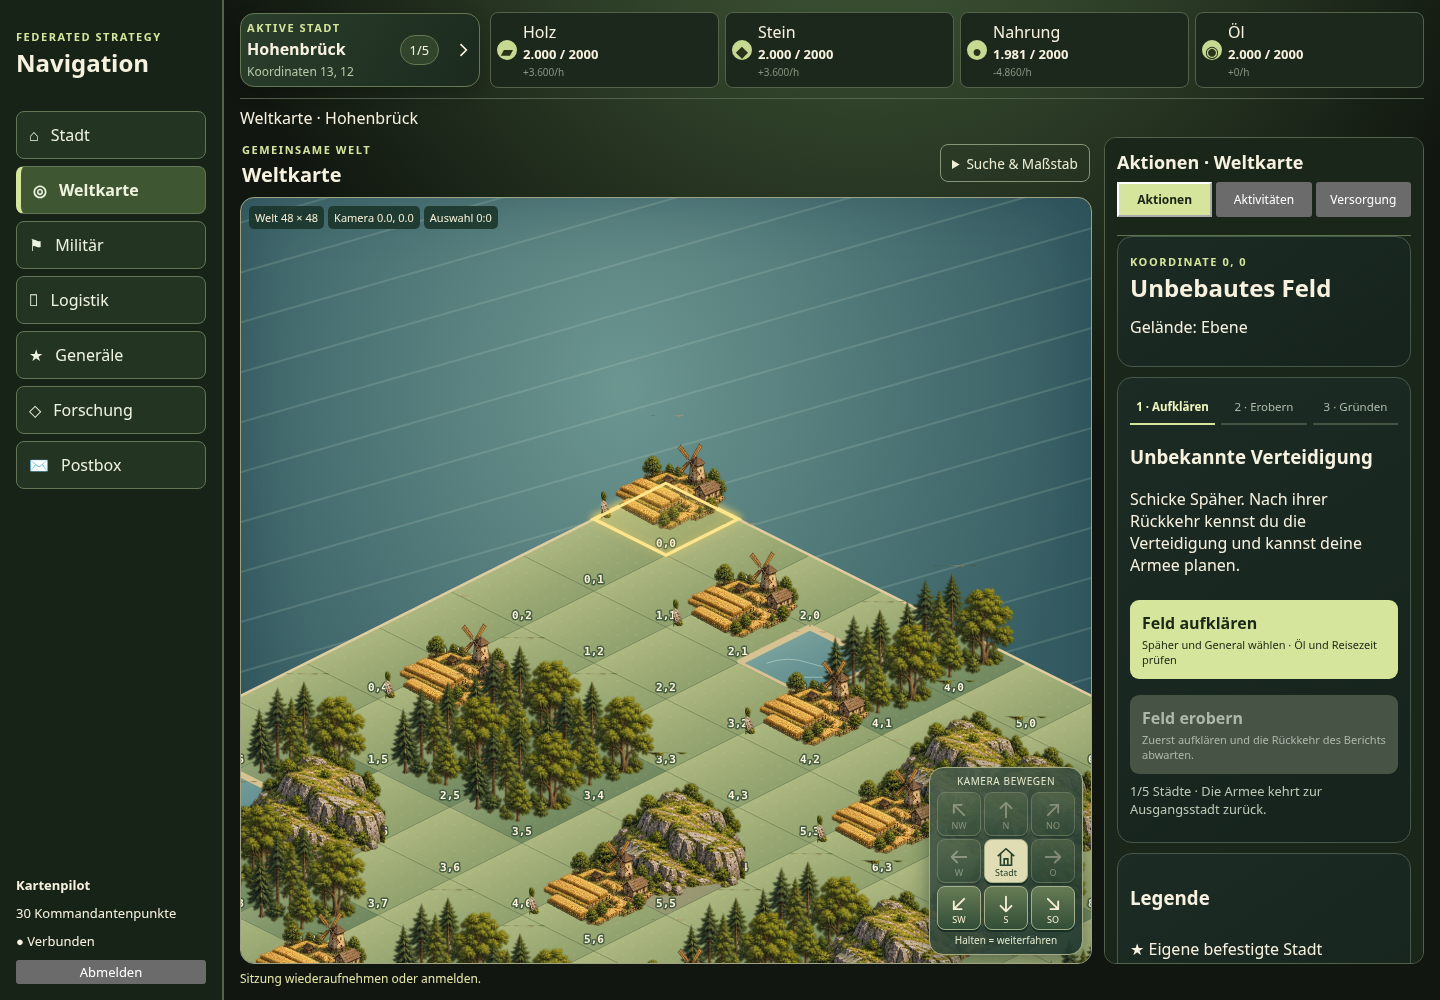
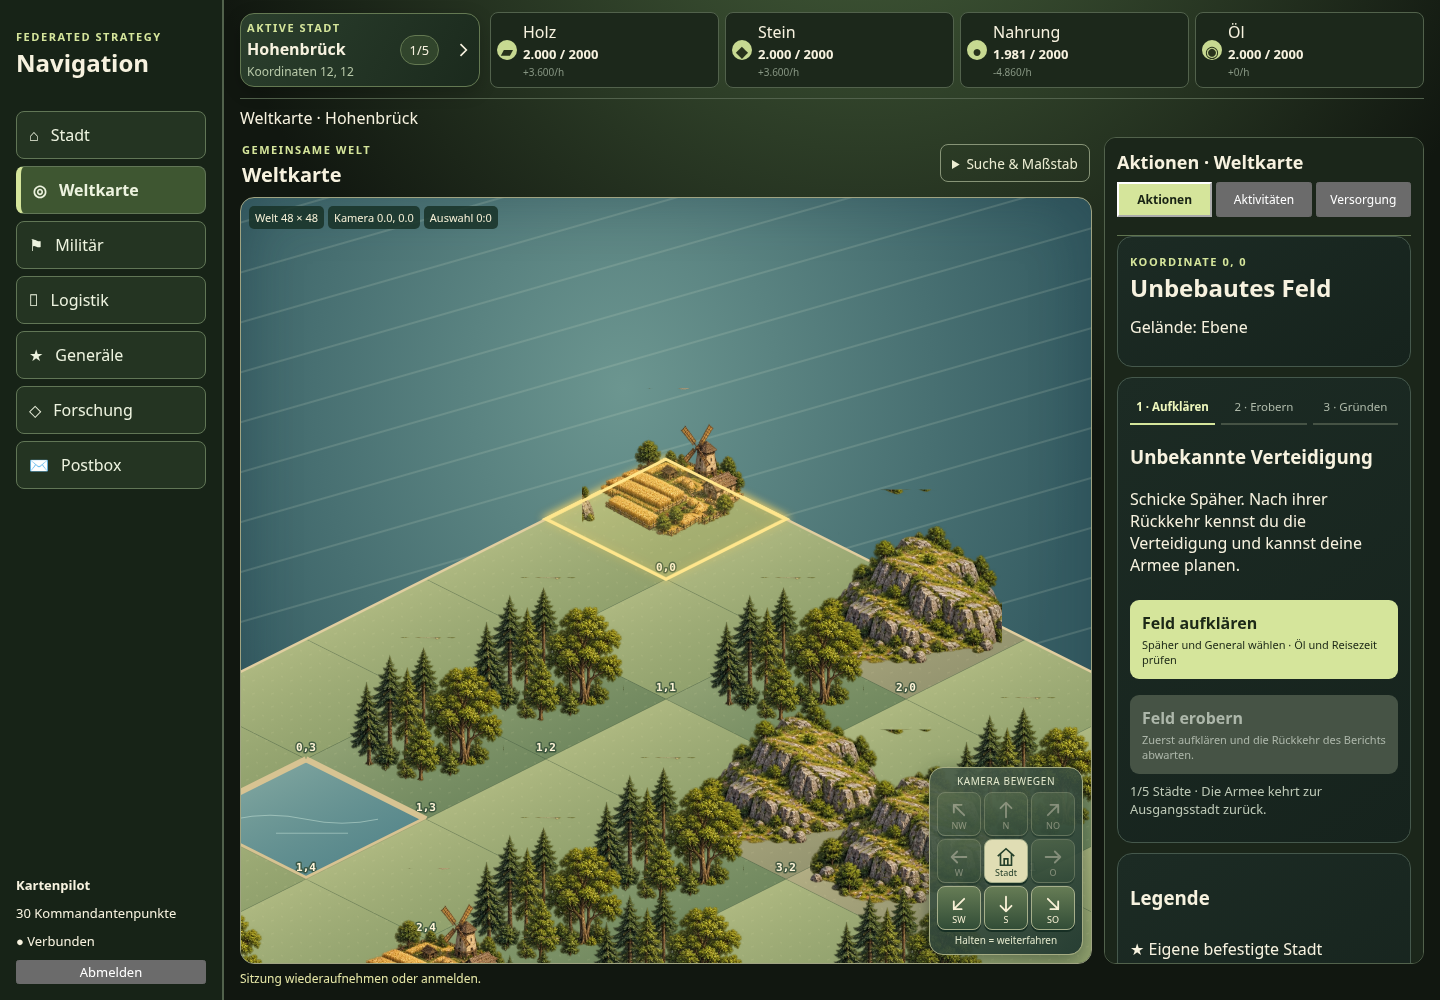
fix: fit city footprints into larger isometric fields

Changed region(s): [[0.1562, 0.434, 0.7812, 0.961]]

diff --git a/apps/client/src/IsometricMap.jsx b/apps/client/src/IsometricMap.jsx
@@ -6,7 +6,7 @@ import { MapCompass } from './MapCompass.jsx';
 export function IsometricMap({ map, cityId, transport, selection }) {
   const [cache,setCache]=useState(()=>mergeMapCache({revision:null,terrain:new Map(),entities:new Map()},map));
   const bounds=map?.bounds??{width:24,height:24};
-  const [camera,setCamera]=useState(()=>clampCamera(map?.ownCity??{x:12,y:12},bounds)),[tileWidth,setTileWidth]=useState(() => window.innerWidth <= 560 ? 128 : 144),[coordinate,setCoordinate]=useState(''),[toolsOpen,setToolsOpen]=useState(false),[frame,setFrame]=useState({width:700,height:500}),[loading,setLoading]=useState(false),[error,setError]=useState('');
+  const [camera,setCamera]=useState(()=>clampCamera(map?.ownCity??{x:12,y:12},bounds)),[tileWidth,setTileWidth]=useState(() => window.innerWidth <= 560 ? 208 : 240),[coordinate,setCoordinate]=useState(''),[toolsOpen,setToolsOpen]=useState(false),[frame,setFrame]=useState({width:700,height:500}),[loading,setLoading]=useState(false),[error,setError]=useState('');
   const frameRef=useRef(null),cameraRef=useRef(camera),cacheRef=useRef(cache),widthRef=useRef(tileWidth),boundsRef=useRef(bounds),frameSize=useRef(frame),ownRef=useRef(map?.ownCity),initialized=useRef(Boolean(map?.ownCity)),flight=useRef(null),requestAt=useRef(0);
   cacheRef.current=cache;widthRef.current=tileWidth;boundsRef.current=bounds;frameSize.current=frame;ownRef.current=map?.ownCity??ownRef.current;
   const position=useCallback(point=>{const next=clampCamera(point,boundsRef.current);cameraRef.current=next;setCamera(next);},[]);
@@ -40,7 +40,7 @@ export function IsometricMap({ map, cityId, transport, selection }) {
   const center=project(camera,tileWidth);
   const search=event=>{event.preventDefault();const parts=coordinate.match(/^\s*(\d+)\s*[,; ]\s*(\d+)\s*$/);if(!parts){setError('Koordinate als x, y eingeben.');return;}position({x:Number(parts[1]),y:Number(parts[2])});setError('');};
   return <div className="iso-map-window">
-    <div className="iso-toolbar"><div><span className="kicker">GEMEINSAME WELT</span><h2 id="world-heading">Weltkarte</h2></div><details className="iso-tools" open={toolsOpen} onToggle={event=>setToolsOpen(event.currentTarget.open)}><summary>Suche &amp; Maßstab</summary><div className="iso-tool-content"><form onSubmit={search}><label>Koordinate<input value={coordinate} onChange={event=>setCoordinate(event.target.value)} placeholder="12, 8" inputMode="numeric"/></label><button>Suchen</button></form><button aria-label="Verkleinern" disabled={tileWidth<=112} onClick={()=>setTileWidth(w=>Math.max(112,w-16))}>−</button><output aria-label="Kartenmaßstab">{Math.round(tileWidth/144*100)} %</output><button aria-label="Vergrößern" disabled={tileWidth>=208} onClick={()=>setTileWidth(w=>Math.min(208,w+16))}>+</button></div></details></div>
+    <div className="iso-toolbar"><div><span className="kicker">GEMEINSAME WELT</span><h2 id="world-heading">Weltkarte</h2></div><details className="iso-tools" open={toolsOpen} onToggle={event=>setToolsOpen(event.currentTarget.open)}><summary>Suche &amp; Maßstab</summary><div className="iso-tool-content"><form onSubmit={search}><label>Koordinate<input value={coordinate} onChange={event=>setCoordinate(event.target.value)} placeholder="12, 8" inputMode="numeric"/></label><button>Suchen</button></form><button aria-label="Verkleinern" disabled={tileWidth<=160} onClick={()=>setTileWidth(w=>Math.max(160,w-32))}>−</button><output aria-label="Kartenmaßstab">{Math.round(tileWidth/240*100)} %</output><button aria-label="Vergrößern" disabled={tileWidth>=320} onClick={()=>setTileWidth(w=>Math.min(320,w+32))}>+</button></div></details></div>
     <div className="iso-map-frame" ref={frameRef} data-camera-x={camera.x.toFixed(5)} data-camera-y={camera.y.toFixed(5)} data-tile-width={tileWidth}>
       <MapCompass camera={camera} bounds={bounds} tileWidth={tileWidth} onMove={move} onHome={()=>ownRef.current&&position(ownRef.current)}/>
       <div className="iso-map-hud"><span>Welt {bounds.width} × {bounds.height}</span><output aria-label="Kameraposition">Kamera {camera.x.toFixed(1)}, {camera.y.toFixed(1)}</output>{selected&&<span data-selected-coordinate={selected}>Auswahl {selection.entity?.name??selected}</span>}{loading&&<span role="status">Karte lädt …</span>}</div>

diff --git a/apps/client/src/IsometricScene.jsx b/apps/client/src/IsometricScene.jsx
@@ -6,7 +6,7 @@ const terrainNames={plains:'Ebene',forest:'Wald',hills:'Hügel',water:'Wasser'};
 const colors={plains:'#a4b579',forest:'#799466',hills:'#aaa57d',water:'#5994a2'};
 function Sprite({ kind, width }) {
   const index={ 'own-city':0,'player-city':1,npc:2,forest:3,hills:4,plains:5 }[kind];
-  return <svg x={-width/2} y={-width*.80} width={width} height={width} viewBox={`${(index%3)*400} ${Math.floor(index/3)*400} 400 400`} overflow="hidden" className="iso-sprite" pointerEvents="none" aria-hidden="true"><image href={atlas} width="1200" height="800"/></svg>;
+  return <svg x={-width/2} y={-width*.78} width={width} height={width} viewBox={`${(index%3)*400} ${Math.floor(index/3)*400} 400 400`} overflow="hidden" data-sprite-width={width} className="iso-sprite" pointerEvents="none" aria-hidden="true"><image href={atlas} width="1200" height="800"/></svg>;
 }
 
 export function IsometricScene({ cache, bounds, tileWidth, selected, onSelect }) {
@@ -37,8 +37,8 @@ export function IsometricScene({ cache, bounds, tileWidth, selected, onSelect })
     <g className="iso-object-layer">{painted.map(t=>{const key=`${t.x}:${t.y}`,e=cache.entities.get(key),p=project(t,tileWidth),kind=e?.type??t.type;
       if(kind==='water'||kind==='plains'&&(t.x*3+t.y)%7!==0)return null;
       return <g key={key} className={`iso-object ${e?'iso-city':''}`} data-map-coordinate={key} data-entity-type={e?.type} data-depth={t.x+t.y} transform={`translate(${p.x} ${p.y})`} role={e?'button':undefined} tabIndex={e?0:undefined} aria-label={e?`${e.name}, ${mapEntityLabel(e.type)}, ${t.x}, ${t.y}`:undefined} onClick={event=>select(event,key)} onKeyDown={event=>keyboard(event,key)}>
-        <path className="iso-object-hit" d={e?`M${-tileWidth*.7} -15 ${-tileWidth*.6} ${-tileWidth*.65} ${-tileWidth*.2} ${-tileWidth*.8} 0 ${-tileWidth*1.15} ${tileWidth*.25} ${-tileWidth*.75} ${tileWidth*.65} ${-tileWidth*.6} ${tileWidth*.7} 0 0 ${tileWidth*.24}Z`:`M${-tileWidth*.52} 0 ${-tileWidth*.45} ${-tileWidth*.65} 0 ${-tileWidth*.8} ${tileWidth*.5} ${-tileWidth*.55} ${tileWidth*.52} 0 0 ${tileWidth*.2}Z`} fill="transparent" pointerEvents="all"/>
-        {kind==='claim'?<g><ellipse cy="8" rx="20" ry="7" fill="#263e2a66"/><path d="M0 8v-65l28 10L0-36" fill="#e5ca7c" stroke="#6d5739" strokeWidth="3"/></g>:<Sprite kind={kind} width={tileWidth*(e?1.5:kind==='hills'?1.1:kind==='forest'?.85:.9)}/>}
+        <path className="iso-object-hit" d={e?`M${-tileWidth*.37} 0 ${-tileWidth*.32} ${-tileWidth*.34} ${-tileWidth*.1} ${-tileWidth*.43} 0 ${-tileWidth*.62} ${tileWidth*.13} ${-tileWidth*.4} ${tileWidth*.35} ${-tileWidth*.32} ${tileWidth*.37} 0 0 ${tileWidth*.17}Z`:`M${-tileWidth*.31} 0 ${-tileWidth*.27} ${-tileWidth*.4} 0 ${-tileWidth*.53} ${tileWidth*.3} ${-tileWidth*.35} ${tileWidth*.31} 0 0 ${tileWidth*.14}Z`} fill="transparent" pointerEvents="all"/>
+        {kind==='claim'?<g><ellipse cy="8" rx="20" ry="7" fill="#263e2a66"/><path d="M0 8v-65l28 10L0-36" fill="#e5ca7c" stroke="#6d5739" strokeWidth="3"/></g>:<Sprite kind={kind} width={tileWidth*(e ? .8 : kind==='hills' ? .8 : kind==='forest' ? .65 : .7)}/>}
       </g>;
     })}</g>
     {selected&&(()=>{const [x,y]=selected.split(':').map(Number),p=project({x,y},tileWidth);return <polygon className="iso-selection-outline" points={`0,${-h} ${w},0 0,${h} ${-w},0`} transform={`translate(${p.x} ${p.y})`} fill="#ffe58418" stroke="#ffe68c" strokeWidth="3" pointerEvents="none"/>;})()}

diff --git a/docs/WORLD_MAP_VALIDATION.md b/docs/WORLD_MAP_VALIDATION.md
@@ -8,7 +8,13 @@ Die Karte ist eine isometrische 2,5D-Szene mit rautenförmigem Boden, Schatten u
 
 Die Windrose bleibt innerhalb des Kartenrahmens unten rechts. Acht Richtungen entsprechen der Bildschirmrichtung der Kamera; die Landschaft läuft entgegengesetzt. Ein kurzer Druck bewegt 64 Bildpixel. Nach 220 ms Haltezeit folgt Bewegung mit 170 Bildpixeln pro Sekunde, unabhängig von Bildrate und Tastaturwiederholung. Loslassen außerhalb, Pointer-Cancel, Fokusverlust und versteckte Dokumente stoppen die Bewegung. Enter/Leertaste und Touch werden unterstützt. Navigation verändert weder Auswahl noch Zoom und löst keine Spielaktion aus. Ziehen, Wischen, Mausrad und lose Pfeiltasten bewegen die Kamera nicht.
 
-Suche, eigener Stadtmittelpunkt und expliziter Zoom verwenden dieselbe Projektion. Der anfängliche Maßstab beträgt 144 px pro Raute, auf schmalen Geräten 128 px; Navigation hält den Maßstab konstant. Die responsive Kartenfläche benötigt kein Scrollen der Seite. Jenseits der ausdrücklich gezeichneten Weltgrenze liegt eine dekorative Wasserfläche ohne auswählbare Felder.
+Suche, eigener Stadtmittelpunkt und expliziter Zoom verwenden dieselbe Projektion. Der anfängliche Maßstab beträgt 240 px pro Raute, auf schmalen Geräten 208 px; Navigation hält den Maßstab konstant. Die responsive Kartenfläche benötigt kein Scrollen der Seite. Jenseits der ausdrücklich gezeichneten Weltgrenze liegt eine dekorative Wasserfläche ohne auswählbare Felder.
+
+## Korrektur der Stadt-/Feldgrößen
+
+Die Felder wurden von 144 auf 240 px am Desktop und von 128 auf 208 px auf schmalen Geräten vergrößert. Stadtgrafiken belegen jetzt 80 % statt 150 % der Feldbreite; ihr Bodenanker wurde nachjustiert. Dadurch passen Mauern und Stadtgrundfläche mit Abstand in die zugehörige Raute. Türme dürfen als erhöhte Objekte weiterhin vor dahinterliegende Felder ragen. Die Trefferflächen für Städte und Gelände wurden entsprechend verkleinert, damit unsichtbare alte Trefferbereiche keine Nachbarfelder auswählen. Der explizite Zoom reicht nun von 160 bis 320 px.
+
+Der ergänzte Browsercheck prüft die tatsächliche Stadtbreite sowie freie, korrekt zugeordnete vordere Feldränder für alle drei Stadttypen. Ein Zwischenlauf zeigte an einem seitlichen Rand eine Überdeckung durch ein Vordergrundobjekt; die Prüfung verwendet daher die Bodenränder vor den Gebäuden, während erhöhte Architektur weiterhin gemäß Tiefensortierung auswählbar bleibt. Die zu großen Geländetrefferflächen wurden dabei korrigiert. Abschlussbefehle und neue Screenshots wurden nach der Korrektur erneut erzeugt (`work/isometric-size-test.log`, `work/isometric-size-build.log`, `work/isometric-size-browser.log`).
 
 ## Projektion, Daten und Spielstände
 
@@ -24,7 +30,7 @@ Es gibt keine neuen Serverbefehle, Geländearten oder Spielregeln. Auswahl, Aufk
 | --- | --- |
 | `npm test` | 238 Tests bestanden, 0 fehlgeschlagen |
 | `npm run build` | Produktionsbuild erfolgreich |
-| `PLAYWRIGHT_MODULE=/opt/codex/runtimes/cua/lib/node_modules/playwright/index.mjs node scripts/validate-world-map-ui.mjs` | Neun Browserprüfgruppen erfolgreich, keine JavaScript-Seitenfehler |
+| `PLAYWRIGHT_MODULE=/opt/codex/runtimes/cua/lib/node_modules/playwright/index.mjs node scripts/validate-world-map-ui.mjs` | Zehn Browserprüfgruppen erfolgreich, keine JavaScript-Seitenfehler |
 | `git diff --check` | Keine Whitespacefehler |
 
 Sechs neue automatisierte Kameratests prüfen Projektion und inverse Auswahl bei mehreren Maßstäben und Weltenden, alle acht Bildschirmrichtungen, Stopp an Grenzen, zeitbasierte Bewegung, Abbruch/Richtungswechsel, Cache-Revisionen und begrenzte Nachladeblöcke einschließlich kleiner Welten. Zwei Transporttests prüfen erhaltene Auswahl/Details, veraltete Antworten und weiterhin leere Felder. Bestehende Spiellogik- und Persistenztests bleiben Bestandteil des vollständigen Testsatzes.

diff --git a/README.md b/README.md
@@ -249,3 +249,5 @@ Die Weltkarte liegt in einem an den verfügbaren Platz angepassten Kartenfenster
 Die Windrose bleibt unten rechts **im Kartenfenster** stehen: kurzer Klick bewegt die Kamera um einen festen Schritt, Gedrückthalten fährt kontinuierlich weiter. Loslassen, Zeigerabbruch und Fokusverlust stoppen sofort. Alle acht Richtungen beziehen sich auf den Bildschirm. Die Mitte zentriert die ausgewählte eigene Stadt bei unverändertem Maßstab. Die Bedienung funktioniert auch mit Tab und Enter/Leertaste; Zoomen und Seitenscrollen sind zum Erkunden nicht nötig. Zusätzliche Suche und Maßstabwahl bleiben aufklappbar.
 
 Die Kamera bewegt sich unmittelbar im Client. Benötigte öffentliche Kartenausschnitte werden gebündelt über den vorhandenen WebSocket nachgeladen und zwischengespeichert; verspätete Antworten verschieben weder Kamera noch Auswahl zurück. Spielstände, Weltkoordinaten, Entfernungen und Reisezeiten bleiben unverändert. Screenshots, ausgeführte Prüfungen und Grenzen: [WORLD_MAP_VALIDATION.md](docs/WORLD_MAP_VALIDATION.md).
+
+Die isometrischen Felder starten mit 240 px Breite (mobil 208 px). Stadtgrundflächen sind auf 80 % der Feldbreite begrenzt und am Feldboden verankert; die vergrößerten Felder lassen sichtbaren Abstand zwischen benachbarten Städten.
